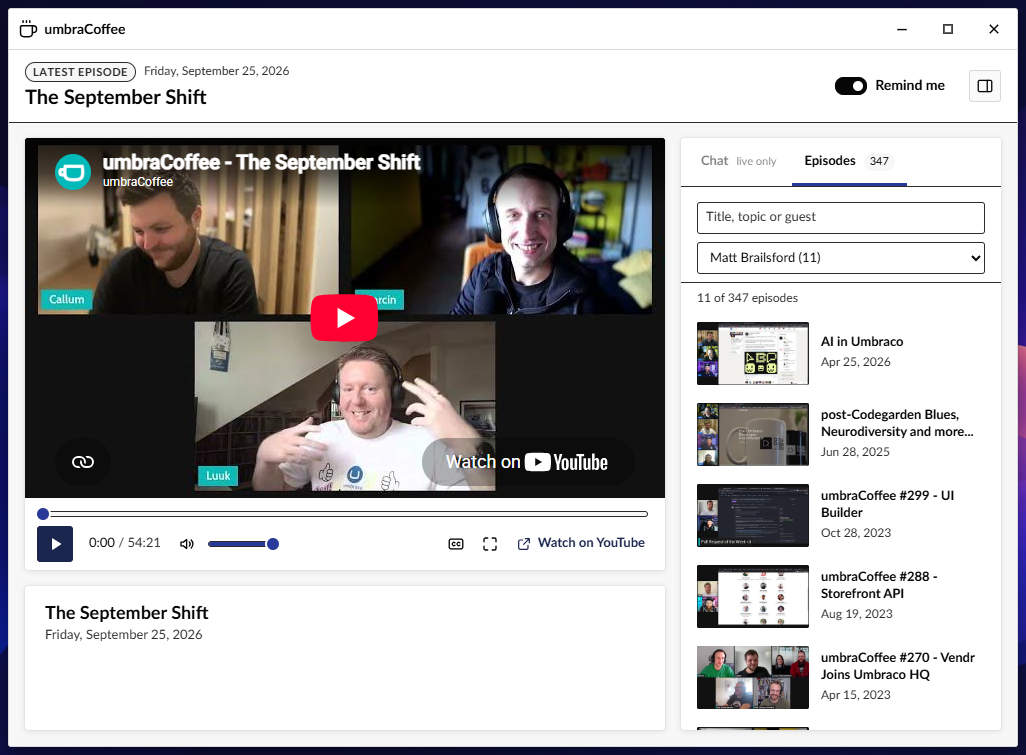
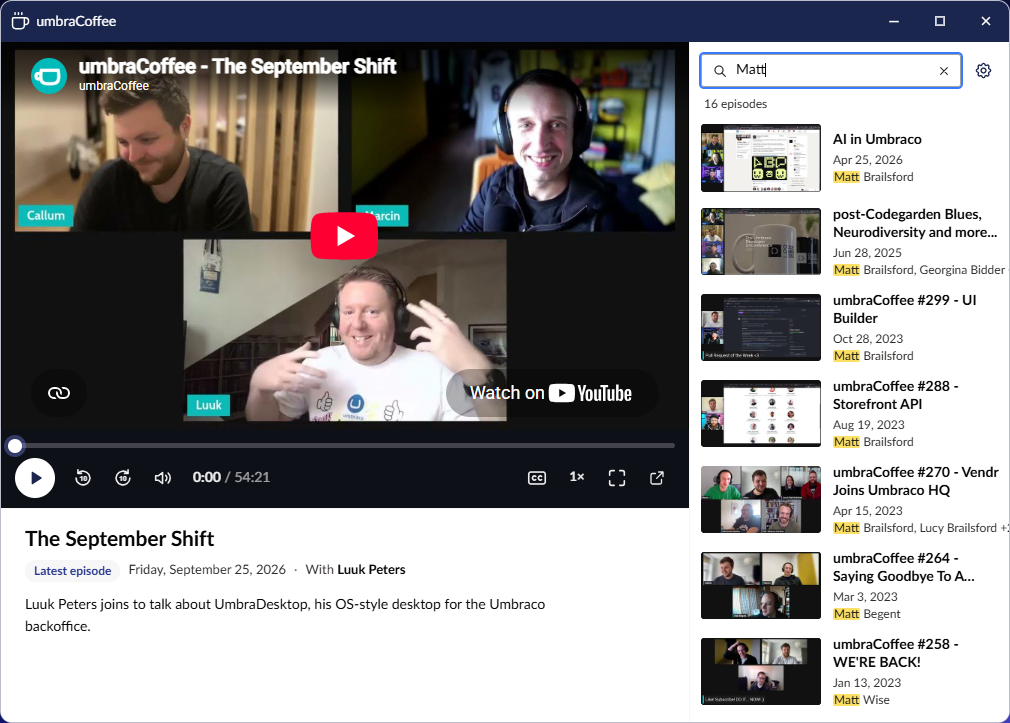
Bring the umbraCoffee docs and screenshots in line with the current window
The user page described the old window: a header row, the Remind me switch in it, a guest
dropdown and an offline banner. It now describes the tag on the date line, the player bar,
the settings dialog behind the gear, the single search field and the offline warning icon.
A new developer page lists the console commands for testing. Screenshots retaken from a real
backoffice, with on-demand and reminder shots added; marketplace captions updated to match.

diff --git a/src/Umbraco.Community.UmbraDesktop.Entertainment/docs/user/umbracoffee.md b/src/Umbraco.Community.UmbraDesktop.Entertainment/docs/user/umbracoffee.md
@@ -12,66 +12,78 @@ umbraCoffee is the Umbraco community's monthly live show. UmbraDesktop Entertain
 desktop in a window of its own, in the launcher's **Media** group. It comes with the same package as
 the [games](games.md), so installing it is the same one command.
 
-![The umbraCoffee window while a show is live: the stream under player controls, the episode's title, date, summary and guests below it, and the Episodes tab in the side panel with a search field and a guest filter.](../screenshots/umbracoffee-live.png)
+![The umbraCoffee window while a show is live: the stream with its control bar under it, then the episode's title, a Live tag with the start time and the guest, and a summary. Beside it are the Chat and Episodes tabs, with the episode list open and the live episode at the top.](../screenshots/umbracoffee-live.png)
 
 ## Watch
 
 To open it, open the launcher and select **umbraCoffee** in the Media group. The window opens on
 whatever matters now:
 
-- **Live:** the stream, with the live chat beside it. Reading the chat needs nothing; posting in it
-  needs you signed in to YouTube in that browser, with third-party cookies allowed.
-- **Coming up:** a countdown in days, hours and minutes, with the start time written like the
-  desktop's clock, following your Regional format and Clock settings.
+- **Live:** the stream, with **Chat** and **Episodes** tabs beside it, open on **Chat**. Reading the
+  chat needs nothing. Posting in it needs you signed in to YouTube in that browser, with third-party
+  cookies allowed.
+- **Upcoming:** a countdown in days, hours and minutes where the picture will be, with a
+  **Watch the last episode** button under it.
 - **Otherwise:** the latest episode, ready to play.
 
-![The umbraCoffee window before the next show: a countdown in days, hours and minutes with the start time, a Remind me switch and a Watch the last episode button, and the episode list in the side panel.](../screenshots/umbracoffee-upcoming.png)
+![The umbraCoffee window before the next show: a countdown in days, hours and minutes with a Watch the last episode button, the episode's title with an Upcoming tag and its start time under it, and the episode list beside it with the coming episode at the top.](../screenshots/umbracoffee-upcoming.png)
 
-The video is YouTube's own player, but the controls under it are umbraCoffee's: play and pause, a
-seek bar, volume, captions, full screen and a link to watch on YouTube. They are drawn in the style of
-the theme you picked, so the window looks native under each of the five and follows the light or dark
-palette of the desktop.
+Under the picture is the episode: its title, then a line with a tag saying **Live**, **Upcoming** or
+**Latest episode**, its date, and its guests after **With**, then a short summary of what it covers.
+Times are written like the desktop's clock, following your Regional format and Clock settings. An
+episode with no summary or no guests leaves that part out.
 
-![The umbraCoffee window under each of the desktop's themes, its player controls, tabs and switches drawn in each theme's own style.](../screenshots/umbracoffee-themes.png)
+![The umbraCoffee window playing the latest episode: the video with its control bar, the title with a Latest episode tag, the date and the guest, a short summary, and the episode list beside it with the playing episode marked Paused.](../screenshots/umbracoffee-on-demand.png)
 
-The side panel beside the player has two tabs, **Chat** (live only) and **Episodes**, newest first,
-thirty at a time, each playable in place. A button in the header hides the panel, and a window too
-narrow for both moves it under the player. The window can be resized and maximised. umbraCoffee
-opens one window at a time, so opening it again brings the one you have to the front.
+The video is YouTube's own player, with umbraCoffee's controls in a bar under it: a seek line, then
+play, back and forward 10 seconds, volume and the time, and at the right captions, speed, full screen
+and **Watch on YouTube**. Speed steps through 1, 1.25, 1.5 and 2 times. Where the bar is less than
+720 pixels wide, it leaves out the volume slider, keeping the mute button, and shows **Watch on
+YouTube** as an icon only.
 
-Under the player is the episode playing: its title, its date, a short summary of what it covers, and
-its guests on a line starting **With**. An episode with nothing to say there leaves that part out.
+The list beside the player shows the episodes newest first, thirty at a time, with **Show more**
+under them. Select one to play it in place. In a narrow window the list moves under the player. The
+window can be resized down to 520 pixels wide, and maximised. umbraCoffee opens one window at a time,
+so opening it again brings the one you have to the front.
+
+The window looks native under each of the desktop's themes.
+
+![The umbraCoffee window under each of the desktop's five themes, and before a show under Windows 98.](../screenshots/umbracoffee-themes.png)
 
 ## Find an old episode
 
-To find an old episode, use the search field at the top of **Episodes**, **Title, topic or guest**.
-It looks in every episode's title, summary and guest names, ignores case and accents, and every word
-you type has to match. Under it, **All guests** lists everyone who has been on the show with how many
-episodes they were in, so you can pick one person and see only their episodes. Both work on the
-whole archive, not just the rows already shown, and the panel says how many episodes match. When
-nothing does, **Show all episodes** clears both.
+To find an old episode, type in the search field above the list, **Title, topic or guest**. It looks
+in every episode's title, summary and guest names, ignores case and accents, and every word you type
+has to match. It searches the whole archive, not just the rows already shown. While you search, the
+number of matching episodes shows under the field, and the matches are highlighted. When nothing
+matches, **Show all episodes** clears the search.
 
-![The Episodes tab filtered to one guest, showing how many of all the episodes match, with the matching episodes listed below.](../screenshots/umbracoffee-search.png)
+![The episode list searched for Matt, saying 16 episodes match, with Matt highlighted in each guest line.](../screenshots/umbracoffee-search.png)
 
 ## The tray cup and the reminders
 
-You do not have to remember to open it. While an episode is coming up or live, a coffee cup sits in
-the taskbar beside the clock: steaming while it is coming up, with a red dot once it is live. Point
-at it for the title and how long until it starts, and select it to open umbraCoffee. The rest of the
-month the cup is not there at all.
+You do not have to remember to open it. While an episode is coming up or live, umbraCoffee's coffee
+cup sits in the taskbar beside the clock: plain while the episode is coming up, steaming once it is
+live. Point at it for the title and how long until it starts, and select it to open umbraCoffee. The
+rest of the month the cup is not there at all.
 
 The desktop also reminds you twice per episode: ten minutes before it starts, and again when it goes
-live. Each reminder has two buttons. **Watch** opens umbraCoffee, and **Stop reminding me** turns the
-cup and the reminders off. Each reminder is shown once per episode in each browser, so a second tab
-or a reload does not repeat it.
+live. The first says **Put the kettle on** with a countdown to the start, then **Starting now**. The
+second says **Grab a cuppa!** and **On air**, and replaces the first. Each has two buttons:
+**Watch** (**Watch now** once it is live) opens umbraCoffee, and **Stop reminding me** turns the cup
+and the reminders off. Each reminder is shown once per episode in each browser, so a second tab or a
+reload does not repeat it. The notification list behind the clock keeps a one-line copy of each.
+
+![The reminder ten minutes before a show: a coffee cup badge, umbraCoffee, Put the kettle on, the episode's title and a countdown in minutes and seconds, with Watch and Stop reminding me buttons, above the cup in the taskbar beside the clock.](../screenshots/umbracoffee-reminder.png)
 
 The cup and the reminders are one switch, on by default. To switch them off, do either of these:
 
 - In Desktop settings, select **Taskbar** and switch **umbraCoffee** off under **System tray icons**.
-- In the umbraCoffee window, switch **Remind me** off.
+- In the umbraCoffee window, select **Settings**, the gear at the top right, and switch **Remind me**
+  off under **Reminders**.
 
-The two stay in step, even with both open. The umbraCoffee app itself stays in the launcher either
-way.
+The two are the same switch, so they stay in step. The umbraCoffee app itself stays in the launcher
+either way.
 
 ## Where umbraCoffee gets its data
 
@@ -89,10 +101,11 @@ job that writes the files runs about every five minutes, though GitHub sometimes
 good time, and a next-episode file that has not been refreshed for half an hour is ignored rather
 than trusted.
 
-If the browser cannot reach GitHub, for example behind a proxy that blocks it, umbraCoffee says so at
-the top of the window and shows the episodes that came with the package, with the date they are up
-to. There is no countdown, no cup and no reminders until it is back, and the **Remind me** switch
-shows as unavailable with the reason. It checks again on its next look.
+If the browser cannot reach GitHub, for example behind a proxy that blocks it, a warning sign shows
+beside the gear. Point at it, or move to it with the keyboard, to read why, and the date the episodes
+it shows are up to: the ones that came with the package. There is no countdown, no cup and no
+reminders until it is back, and the **Remind me** switch in the settings is unavailable, with the
+reason under it. It checks again on its next look.
 
 The package ships a snapshot of the episode list for exactly that case, summaries and guests
 included. It is refreshed before each release, so it can be some weeks behind. The browser only loads
@@ -139,3 +152,5 @@ manifest that puts each app in a window. See
 [Building a desktop app](https://github.com/Luuk1983/Umbraco.Community.UmbraDesktop/blob/main/docs/developer/desktop-apps.md)
 in the UmbraDesktop developer guide, whose tray section covers the tray item, the tray context and
 notifications with buttons.
+To try the cup and the reminders without waiting for a show, see
+[Testing umbraCoffee](../developer/umbracoffee-testing.md).

diff --git a/src/Umbraco.Community.UmbraDesktop.Entertainment/docs/developer/umbracoffee-testing.md b/src/Umbraco.Community.UmbraDesktop.Entertainment/docs/developer/umbracoffee-testing.md
@@ -1,0 +1,48 @@
+---
+id: umbracoffee-testing
+title: Testing umbraCoffee
+description: Console commands that make umbraCoffee act as if an episode is upcoming, live, absent or unreachable, for checking the window, the tray cup and the reminders.
+sidebar_position: 2
+---
+
+# Testing umbraCoffee
+
+A real episode is live once a month, so umbraCoffee has console commands that make it act as if one
+is upcoming or live, or as if the feed is unreachable. They are for checking the window, the
+[tray cup and the reminders](../user/umbracoffee.md#the-tray-cup-and-the-reminders) in a real
+backoffice. The commands exist in every installation, and change nothing but what the browser tab
+they run in believes.
+
+To use them, open the desktop, open the browser's developer tools, and type the commands in the
+console. `umbraCoffee` is there once the tray cup or the umbraCoffee window has loaded, so if the cup
+is switched off, open the window first. Each command returns a line saying what it did.
+
+## Commands
+
+| Command | What it does |
+| --- | --- |
+| `umbraCoffee.help()` | Lists the commands. |
+| `umbraCoffee.simulate('upcoming', minutes)` | An episode starting in that many minutes, 8 if left out. Under 10, the "soon" reminder is due at once. |
+| `umbraCoffee.simulate('upcoming', minutes, videoId)` | The same with a real YouTube video id. |
+| `umbraCoffee.simulate('live')` | An episode live now. |
+| `umbraCoffee.simulate('live', videoId)` | The same with a real YouTube video id, so the player and the chat have something to show. |
+| `umbraCoffee.simulate('none')` | Nothing coming up: the window shows the latest episode and the cup goes. |
+| `umbraCoffee.simulate('offline')` | The feed unreachable: the warning beside the gear, the packaged episodes, and the **Remind me** switch unavailable. |
+| `umbraCoffee.reset()` | Back to the real feed. |
+| `umbraCoffee.forgetReminders()` | Lets reminders show again in this browser. |
+| `umbraCoffee.status()` | What the app believes now: what it is simulating, whether it is offline, the current episode and how many episodes it holds. |
+
+A simulated episode is called "Simulated episode". The episode list, the summary and the guests stay
+the real ones, so a real video id from the archive shows that episode's details under the player.
+
+## Things to know
+
+- **The start is fixed when you run the command.** `simulate('upcoming', 8)` counts down to a moment
+  eight minutes after you typed it. Run it again for a new start.
+- **A reminder shows once per episode.** Without a video id, each `simulate` makes a new episode, so
+  a second run shows the reminder again. With a real id, run `forgetReminders()`, reload the page,
+  and run the `simulate` again.
+- **The simulation lasts until the page reloads.** A reload, or `reset()`, goes back to the real
+  feed.
+- **The chat of a past video is disabled.** YouTube only shows a live chat for a stream that is live,
+  so `simulate('live', videoId)` with an old episode shows the player but an empty chat.

diff --git a/RELEASE.md b/RELEASE.md
@@ -172,7 +172,7 @@ Nothing in CI can do these.
   | `entertainment-games-solitaire.png` | In the add-on's `docs/screenshots/`. A game in progress with the settings button visible, in the add-on README and listing. |
   | `entertainment-games-snake.png` | In the add-on's `docs/screenshots/`, listing only. Framed to match Minesweeper's: Windows 98, the Games group open in the launcher. Take it **before** the first key press, so the start message is showing in the middle of the board and the snake is sitting a quarter of the way down above it, since that is the one moment the board says how to play. |
   | `header-entry-point.png` | Small and annotated on purpose. It answers one question, "where is the way in", and showing more screen would not answer it better. |
-  | `umbracoffee-live.png`, `umbracoffee-upcoming.png`, `umbracoffee-search.png`, `umbracoffee-themes.png` | In the add-on's `docs/screenshots/`. umbraCoffee live, before the next show, searching by guest, and under every theme, for the Entertainment listing (live and upcoming) and its umbraCoffee page (all four). Live needs a real or faked live `next-episode.json` (DevTools "Override content" works). |
+  | `umbracoffee-live.png`, `umbracoffee-upcoming.png`, `umbracoffee-on-demand.png`, `umbracoffee-search.png`, `umbracoffee-themes.png`, `umbracoffee-reminder.png` | In the add-on's `docs/screenshots/`. umbraCoffee live, before the next show, playing the latest episode, searching by guest, under every theme, and the reminder ten minutes before a show, for the Entertainment listing (live and upcoming) and its umbraCoffee page (all six). The window shots are the window alone at its default size, the reminder a 420×200 corner with the cup. Live and upcoming need a live or upcoming episode: the console commands in [Testing umbraCoffee](src/Umbraco.Community.UmbraDesktop.Entertainment/docs/developer/umbracoffee-testing.md) give one, but name it "Simulated episode", so the 17.x shots answered `next-episode.json` with a real archive episode's id and title instead (puppeteer request interception). Live shows the Episodes tab, because YouTube disables the chat of a past video; retake it during a real show to have the chat in it. |
 
   **Accessories has one shot**, `accessories-desktop.png` in its own `docs/screenshots/`: a few of
   its tools open side by side under Windows 98. It is the add-on's opening image and its only

diff --git a/src/Umbraco.Community.UmbraDesktop.Entertainment/docs/developer/README.md b/src/Umbraco.Community.UmbraDesktop.Entertainment/docs/developer/README.md
@@ -1,15 +1,19 @@
 ---
 id: entertainment-developer-guide
 title: Developer guide
-description: How to extend the Entertainment games from your own package.
+description: How to extend the Entertainment games from your own package, and how to test umbraCoffee.
 sidebar_position: 2
 ---
 
 # Developer guide
 
-How to extend the games in UmbraDesktop Entertainment from your own package. For playing them, see
-the [user guide](../user/games.md).
+How to extend the games in UmbraDesktop Entertainment from your own package, and how to test
+umbraCoffee. For using them, see the user guide on the [games](../user/games.md) and
+[umbraCoffee](../user/umbracoffee.md).
 
 - [Adding a card back or a card face set to Solitaire](solitaire-decks.md): the two manifest types,
   a worked card back and a worked face set, the rules that bit during the build, and a checklist to
   run before you ship.
+- [Testing umbraCoffee](umbracoffee-testing.md): console commands that make umbraCoffee act as if an
+  episode is upcoming, live, absent or unreachable, for checking the window, the tray cup and the
+  reminders.
